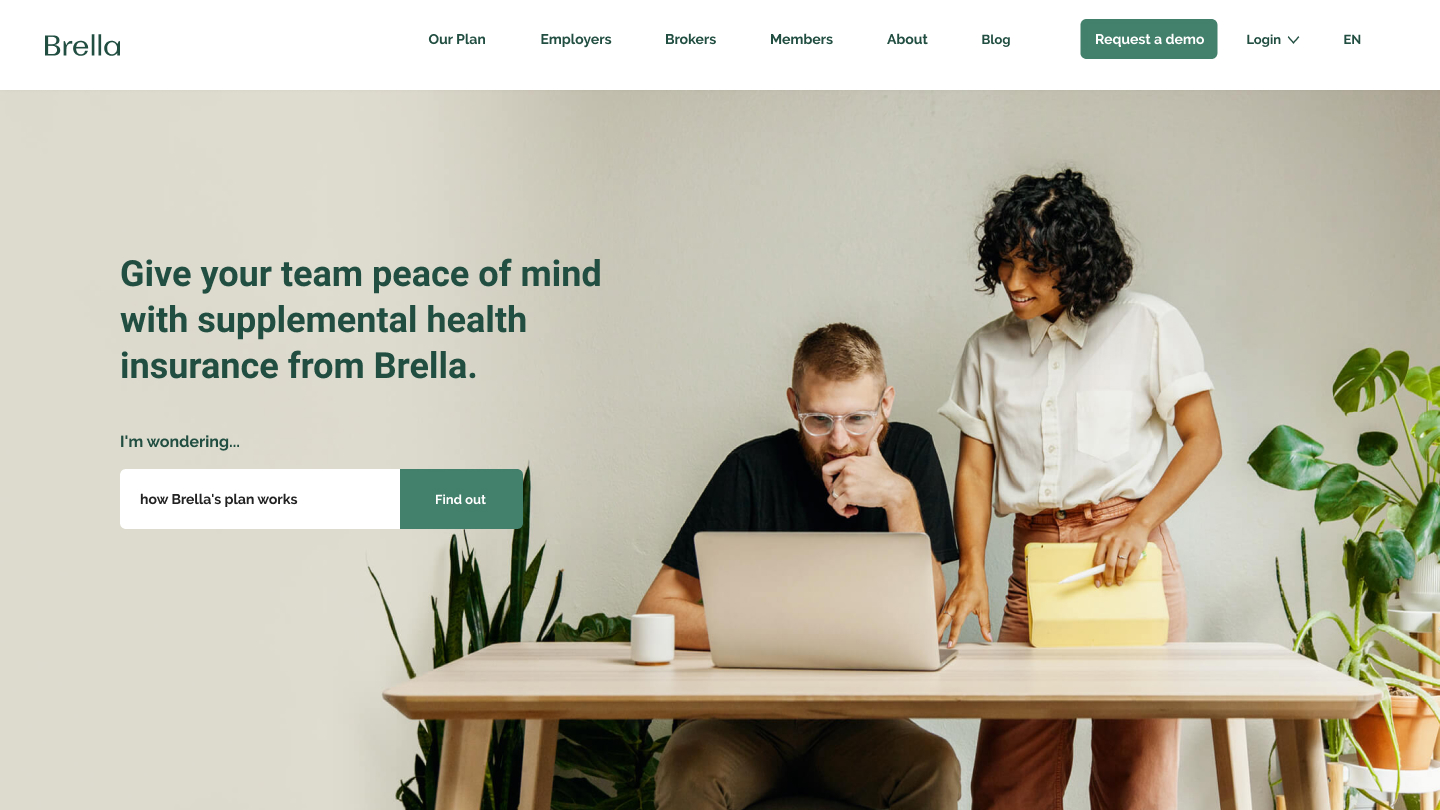
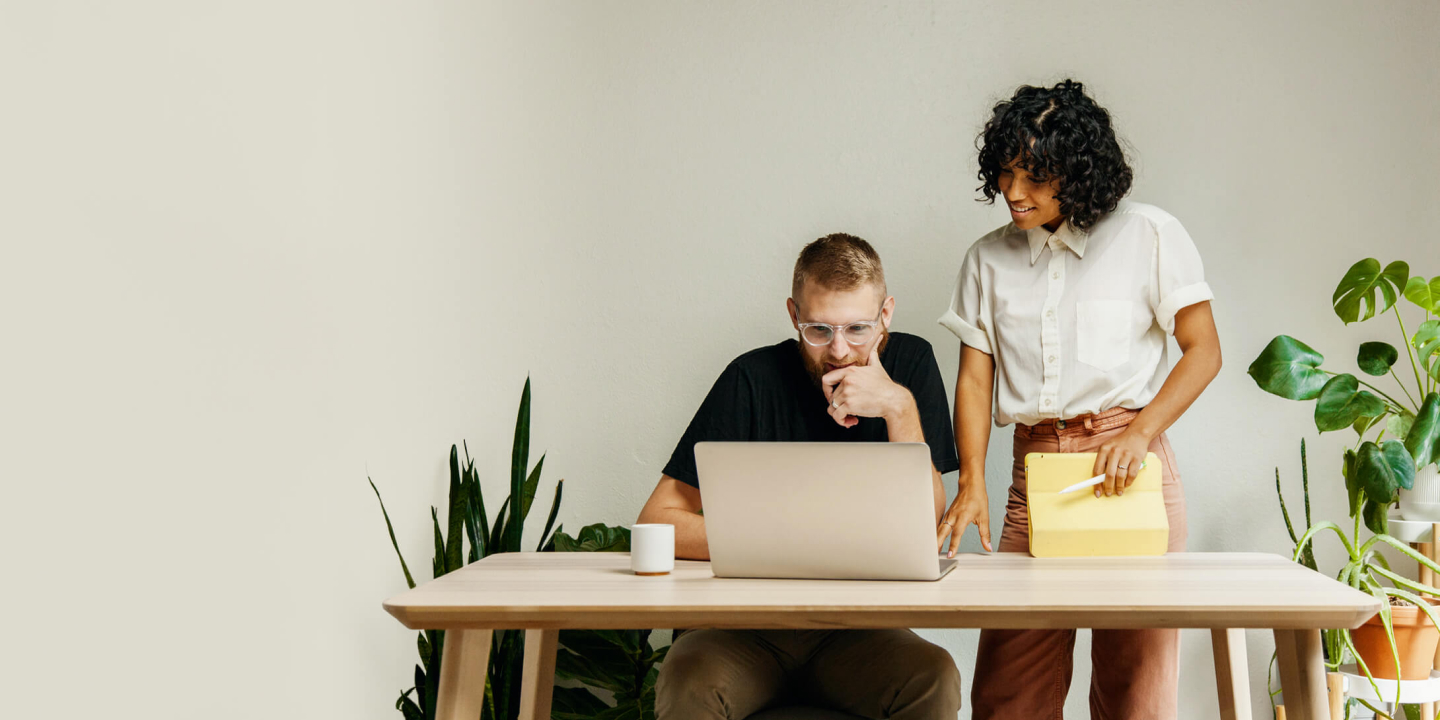
Добавил интро на сайт

diff --git a/style/style.css b/style/style.css
@@ -1,14 +1,11 @@
 @import url("https://fonts.googleapis.com/css2?family=Raleway:wght@300;400;500;600;700;800&family=Roboto:wght@300;400;500;700;900&display=swap");
 body {
-  background-color: #E3EEED;
+  background-color: #ffffff;
 }
 
-.container {
-  width: 1440px;
-  background-color: rgba(48, 42, 42, 0.5);
-  margin: 0 auto;
-}
 .container .header {
+  width: 1440px;
+  margin: 0 auto;
   position: relative;
   top: 0;
   display: -webkit-box;
@@ -47,6 +44,15 @@ body {
 .container .header .header__nav .header__menu .header__menu-item:first-child {
   margin-left: 0px;
 }
+.container .header .header__nav .header__menu .arrow--down {
+  padding-right: 20px;
+  background: url("../image/ico/arrow__down.jpg") right center no-repeat;
+}
+.container .header .header__nav .header__menu .arrow--down:hover {
+  -webkit-transition: 0.3s;
+  transition: 0.3s;
+  background: url("../image/ico/arrow__down.jpg") right 5px no-repeat;
+}
 .container .header .header__nav .header__menu .header__menu-link {
   color: #214E41;
   font-size: 14px;
@@ -62,15 +68,109 @@ body {
   font-weight: bold;
   font-family: "Raleway", Times, serif;
 }
-.container .header .header__nav .header__menu .btn__link:focus, .container .header .header__nav .header__menu .btn__link:hover {
-  text-shadow: 2px 2px 4px rgba(96, 180, 152, 0.5);
-}
-.container .header .header__nav .header__menu .header__menu-btn {
+.container .header .header__nav .header__menu-btn {
   width: 137px;
   height: 40px;
   background-color: #43806C;
   border-radius: 6px;
 }
-.container .header .header__nav .header__menu .header__menu-btn:hover, .container .header .header__nav .header__menu .header__menu-btn:focus {
+.container .header .header__nav .header__menu-btn:hover, .container .header .header__nav .header__menu-btn:focus {
   background-color: #4aac8b;
+}
+.container .wrapper {
+  position: relative;
+  margin-top: 0px;
+}
+.container .wrapper .intro {
+  width: 1440px;
+  margin: 0 auto;
+  position: relative;
+  background-color: #CAC8BB;
+  background: url("../image/bg/bg1.jpg") center no-repeat;
+  height: 720px;
+}
+.container .wrapper .intro .intro__wrapper {
+  position: relative;
+  top: 161px;
+  left: 8%;
+  width: 500px;
+}
+.container .wrapper .intro .intro__title {
+  color: #214E41;
+  font-size: 36px;
+  font-family: "roboto", sans-serif;
+  line-height: 46px;
+  font-weight: bold;
+}
+.container .wrapper .intro .intro__search-desk {
+  margin-top: 40px;
+  font-family: "raleway", sans-serif;
+  font-size: 16px;
+  font-weight: bold;
+  color: #214E41;
+  line-height: 24px;
+  margin-bottom: 16px;
+}
+.container .wrapper .intro .intro__search {
+  position: relative;
+  width: 280px;
+  height: 60px;
+  border-top-left-radius: 6px;
+  border-bottom-left-radius: 6px;
+  -webkit-box-shadow: 0px 4px 4px rgb(129, 129, 123);
+          box-shadow: 0px 4px 4px rgb(129, 129, 123);
+}
+.container .wrapper .intro .intro__search::-webkit-input-placeholder {
+  font-size: 14px;
+  font-weight: bold;
+  position: relative;
+  left: 20px;
+  line-height: 20px;
+  color: #222222;
+}
+.container .wrapper .intro .intro__search::-moz-placeholder {
+  font-size: 14px;
+  font-weight: bold;
+  position: relative;
+  left: 20px;
+  line-height: 20px;
+  color: #222222;
+}
+.container .wrapper .intro .intro__search:-ms-input-placeholder {
+  font-size: 14px;
+  font-weight: bold;
+  position: relative;
+  left: 20px;
+  line-height: 20px;
+  color: #222222;
+}
+.container .wrapper .intro .intro__search::-ms-input-placeholder {
+  font-size: 14px;
+  font-weight: bold;
+  position: relative;
+  left: 20px;
+  line-height: 20px;
+  color: #222222;
+}
+.container .wrapper .intro .intro__search::placeholder {
+  font-size: 14px;
+  font-weight: bold;
+  position: relative;
+  left: 20px;
+  line-height: 20px;
+  color: #222222;
+}
+.container .wrapper .intro .intro__btn {
+  position: relative;
+  width: 123px;
+  height: 62px;
+  margin-left: -4px;
+  background-color: #43806C;
+  border-top-right-radius: 6px;
+  border-bottom-right-radius: 6px;
+  color: white;
+  font-size: 13px;
+  font-weight: bold;
+  font-family: "raleway", sans-serif;
+  line-height: 20px;
 }

diff --git a/style/style.scss b/style/style.scss
@@ -1,7 +1,7 @@
 @import url('https://fonts.googleapis.com/css2?family=Raleway:wght@300;400;500;600;700;800&family=Roboto:wght@300;400;500;700;900&display=swap');
 
 body{
-    background-color: #E3EEED;
+    background-color: #ffffff;
 }
 
 
@@ -9,11 +9,10 @@ body{
 
 
 .container {
-width: 1440px;
-background-color: rgba($color: #302a2a, $alpha: .5);
-margin: 0 auto;
         //*location on the page
         .header {
+            width: 1440px;
+            margin: 0 auto;
             position: relative;
             top: 0;
             display: flex;
@@ -38,6 +37,14 @@ margin: 0 auto;
                     }
                     .header__menu-item:first-child {
                         margin-left: 0px;
+                    }
+                    .arrow--down {
+                        padding-right: 20px;
+                        background: url('../image/ico/arrow__down.jpg') right center no-repeat;
+                    }
+                    .arrow--down:hover {
+                        transition: .3s;
+                        background: url('../image/ico/arrow__down.jpg') right 5px no-repeat;
                     }
                     //*FONTS
                     .header__menu-link{
@@ -69,5 +76,84 @@ margin: 0 auto;
                     }
                 }
             }
+        
+         .wrapper {
+            position: relative;
+            margin-top: 0px;
+            .intro{
+                width: 1440px;
+                margin: 0 auto;
+                position: relative;
+                background-color: #CAC8BB;
+                background: url('../image/bg/bg1.jpg') center no-repeat;
+                height: 720px;
+                .intro__wrapper {
+                    position: relative;
+                    top: 161px;
+                    left: 8%;
+                    width: 500px;
+                }
+                //*FONTS
+                .intro__title{
+                    color: #214E41;
+                    font-size: 36px;
+                    font-family: 'roboto', sans-serif;
+                    line-height: 46px;
+                    font-weight: bold;
+                }
+                .intro__search-desk {
+                    margin-top: 40px;
+                    font-family: 'raleway', sans-serif;
+                    font-size: 16px;
+                    font-weight: bold;
+                    color: #214E41;
+                    line-height: 24px;
+                    margin-bottom: 16px;
+                }
+                //*INPUT and BTN
+                .intro__search {
+                    position: relative;
+                    width: 280px;
+                    height: 60px;
+                    border-top-left-radius: 6px;
+                    border-bottom-left-radius: 6px;
+                    box-shadow: 0px 4px 4px rgba(129, 129, 123, 1);
+                }
+                .intro__search::placeholder{
+                    font-size: 14px;
+                    font-weight: bold;
+                    position: relative;
+                    left: 20px;
+                    line-height: 20px;
+                    color: #222222;
+                }
+                .intro__btn {
+                    position: relative;
+                    width: 123px;
+                    height: 62px;
+                    margin-left: -4px;
+                    background-color: #43806C;
+                    border-top-right-radius: 6px;
+                    border-bottom-right-radius: 6px;
+                    color: white;
+                    font-size: 13px;
+                    font-weight: bold;
+                    font-family: 'raleway', sans-serif;
+                    line-height: 20px;
+                }
+             }
+         }
         }
-}
+
+
+
+
+
+
+
+
+
+
+
+
+

diff --git a/style/style-dist.css b/style/style-dist.css
@@ -1,0 +1,1 @@
+@import url("https://fonts.googleapis.com/css2?family=Raleway:wght@300;400;500;600;700;800&family=Roboto:wght@300;400;500;700;900&display=swap");body{background-color:#E3EEED}.container{width:1440px;background-color:rgba(48,42,42,0.5);margin:0 auto}.container .header{position:relative;top:0;display:-webkit-box;display:-ms-flexbox;display:flex;-webkit-box-pack:justify;-ms-flex-pack:justify;justify-content:space-between;-webkit-box-align:center;-ms-flex-align:center;align-items:center;height:90px;background-color:white}.container .header .logo{position:relative;margin-left:45px}.container .header .header__nav{position:relative;width:977px;height:20px}.container .header .header__nav .header__menu{position:relative;display:-webkit-box;display:-ms-flexbox;display:flex;-webkit-box-align:center;-ms-flex-align:center;align-items:center}.container .header .header__nav .header__menu .header__menu-item{margin-left:50px}.container .header .header__nav .header__menu .header__menu-item:first-child{margin-left:0px}.container .header .header__nav .header__menu .header__menu-link{color:#214E41;font-size:14px;font-weight:bold;font-family:"Raleway",Times,serif}.container .header .header__nav .header__menu .header__menu-link:focus,.container .header .header__nav .header__menu .header__menu-link:hover{text-shadow:2px 2px 4px rgba(0,0,0,0.5)}.container .header .header__nav .header__menu .btn__link{color:#fff;font-size:14px;font-weight:bold;font-family:"Raleway",Times,serif}.container .header .header__nav .header__menu .btn__link:focus,.container .header .header__nav .header__menu .btn__link:hover{text-shadow:2px 2px 4px rgba(96,180,152,0.5)}.container .header .header__nav .header__menu .header__menu-btn{width:137px;height:40px;background-color:#43806C;border-radius:6px}.container .header .header__nav .header__menu .header__menu-btn:focus,.container .header .header__nav .header__menu .header__menu-btn:hover{background-color:#4aac8b}

diff --git a/index.html b/index.html
@@ -38,10 +38,10 @@
                     <li class="header__menu-item">
                         <button class="header__menu-btn">
                             <a href="#!" class="btn__link" title="Follow the link">Request a demo</a>
-                        </button>
+                        </button> <!-- ?СОЗДАТЬ СТРАНИЦУ ВХОДА В ВИДЕ ВКЛАДКИ -->
                     </li>
                     <li class="header__menu-item">
-                        <a href="#!" class="header__menu-link" title="Login">Login</a>
+                        <a href="#!" class="header__menu-link arrow--down" title="Login">Login</a>
                     </li>
                     <li class="header__menu-item">
                         <a href="#!" class="header__menu-link" title="RU">EN</a>
@@ -49,6 +49,23 @@
                 </ul>
             </nav>
         </header>
+        
+        <main class="wrapper">
+            <section class="intro">
+                <div class="intro__wrapper">
+                    <h1 class="intro__title">
+                        Give your team peace of mind with supplemental health insurance from Brella.
+                    </h1>
+                    <form action="/search" method="get" class="intro__form">
+                        <p class="intro__search-desk">
+                            I'm wondering...
+                        </p>
+                        <input title="Максимум символов 500" maxlength="500" type="search" name="search" id="search__input" class="intro__search" placeholder="how Brella's plan works">
+                        <button type="submit" class="intro__btn">Find out</button>
+                    </form>
+                </div>
+            </section>
+        </main>
     </div><!-- container -->
     
 </body>

diff --git a/style/reset.css b/style/reset.css
@@ -371,4 +371,6 @@ a {
 button {
     border: none;
 }
-
+input{
+    border: none;
+}
